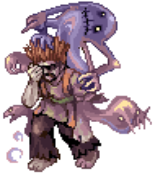
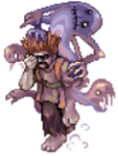
Refacto: Boss params system

diff --git a/components/boss.py b/components/boss.py
@@ -24,13 +24,130 @@ class Boss(pygame.sprite.Sprite):
 
     self.rect = self.image.get_rect()
     self.rect.x = 800
-    self.rect.y = 260
 
     self.health = 200
     self.max_health = 200
     self.velocity = 0.1
-    self.attack = 2
     self.defense = 2
+    
+    if self.game.current_level == 'payon':
+      if self.game.map_index == 1: #eddga
+        self.rect.y = 260
+        self.attack = 2
+        self.health_bar_rect_x = -30
+        self.health_bar_rect_y = -20
+      if self.game.map_index == 2: #moonlight
+        self.rect.y = 260
+        self.attack = 3
+        self.health_bar_rect_x = -30
+        self.health_bar_rect_y = -20
+      if self.game.map_index == 3: #baphomet
+        self.rect.y = 240
+        self.attack = 4
+        self.health_bar_rect_x = -10
+        self.health_bar_rect_y = -20
+
+    if self.game.current_level == 'morroc':
+      if self.game.map_index == 1: #phreeoni
+        self.rect.y = 240
+        self.attack = 6
+        self.health_bar_rect_x = -20
+        self.health_bar_rect_y = -20
+      if self.game.map_index == 2: #maya
+        self.rect.y = 250
+        self.attack = 7
+        self.health_bar_rect_x = -35
+        self.health_bar_rect_y = -20
+      if self.game.map_index == 3: #pharaoh
+        self.rect.y = 240
+        self.attack = 8
+        self.health_bar_rect_x = -50
+        self.health_bar_rect_y = -20
+
+    if self.game.current_level == 'geffen':
+      if self.game.map_index == 1: #gtb
+        self.rect.y = 270
+        self.attack = 9
+        self.health_bar_rect_x = -20
+        self.health_bar_rect_y = - 20
+      if self.game.map_index == 2: #orc lord
+        self.rect.y = 250
+        self.attack = 10
+        self.health_bar_rect_x = -35
+        self.health_bar_rect_y = -20
+      if self.game.map_index == 3: #dark lord
+        self.rect.y = 200
+        self.attack = 11
+        self.health_bar_rect_x = -25
+        self.health_bar_rect_y = -10
+
+    if self.game.current_level == 'island':
+      if self.game.map_index == 1: #octopus
+        self.rect.y = 240
+        self.attack = 12
+        self.health_bar_rect_x = -20
+        self.health_bar_rect_y = -20
+      if self.game.map_index == 2: #drake
+        self.rect.y = 240
+        self.attack = 13
+        self.health_bar_rect_x = -40
+        self.health_bar_rect_y = -20
+      if self.game.map_index == 3: #turtle general
+        self.rect.y = 245
+        self.attack = 14
+        self.health_bar_rect_x = -25
+        self.health_bar_rect_y = -20
+
+    if self.game.current_level == 'yuno':
+      if self.game.map_index == 1: #atroce
+        self.rect.y = 250
+        self.attack = 15
+        self.health_bar_rect_x = -25
+        self.health_bar_rect_y = -20
+      if self.game.map_index == 2: #rsx
+        self.rect.y = 230
+        self.attack = 16
+        self.health_bar_rect_x = -25
+        self.health_bar_rect_y = -20
+      if self.game.map_index == 3: #vesper
+        self.rect.y = 245
+        self.attack = 17
+        self.health_bar_rect_x = -30
+        self.health_bar_rect_y = -20
+
+    if self.game.current_level == 'veins':
+      if self.game.map_index == 1: #detareudus
+        self.rect.y = 260
+        self.attack = 18
+        self.health_bar_rect_x = -15
+        self.health_bar_rect_y = -20
+      if self.game.map_index == 2: #ktullanux
+        self.rect.y = 230
+        self.attack = 19
+        self.health_bar_rect_x = -30
+        self.health_bar_rect_y = -5
+      if self.game.map_index == 3: #ifrit
+        self.rect.y = 205
+        self.attack = 20
+        self.health_bar_rect_x = -20
+        self.health_bar_rect_y = -10
+
+    if self.game.current_level == 'abbeye':
+      if self.game.map_index == 1: #lord of the dead
+        self.rect.y = 230
+        self.attack = 21
+        self.health_bar_rect_x = -15
+        self.health_bar_rect_y = -20
+      if self.game.map_index == 2: #fallen bishop
+        self.rect.y = 250
+        self.attack = 22
+        self.health_bar_rect_x = -40
+        self.health_bar_rect_y = -5
+      if self.game.map_index == 3: #valkyrie
+        self.rect.y = 240
+        self.attack = 23
+        self.health_bar_rect_x = 0
+        self.health_bar_rect_y = -10
 
   def die(self):
     self.game.boss_group.remove(self)
@@ -43,8 +160,8 @@ class Boss(pygame.sprite.Sprite):
       self.die()
 
   def update_health_bar(self, surface):
-    pygame.draw.rect(surface, (60, 63, 60), [self.rect.x - 30, self.rect.y - 20, self.max_health, 7])
-    pygame.draw.rect(surface, (111, 210, 46), [self.rect.x - 30, self.rect.y - 20, self.health, 7])
+    pygame.draw.rect(surface, (60, 63, 60), [self.rect.x + self.health_bar_rect_x, self.rect.y + self.health_bar_rect_y, self.max_health, 7])
+    pygame.draw.rect(surface, (111, 210, 46), [self.rect.x + self.health_bar_rect_x, self.rect.y + self.health_bar_rect_y, self.health, 7])
 
   def forward(self):
     if not self.game.check_collision(self, self.game.players_group):

diff --git a/main.py b/main.py
@@ -42,8 +42,8 @@ geffen_map_3 = pygame.transform.scale(geffen_map_3, (1000, 600)) #geffen3 - glas
 geffen_map_3_position = (0, -100)
 
 island_map_1 = pygame.image.load('assets/maps/island/island1.jpg')
-island_map_1 = pygame.transform.scale(island_map_1, (1300, 900)) #byalan
-island_map_1_position = (-130, -50)
+island_map_1 = pygame.transform.scale(island_map_1, (800, 500)) #byalan
+island_map_1_position = (0, 0)
 island_map_2 = pygame.image.load('assets/maps/island/island2.jpg')
 island_map_2 = pygame.transform.scale(island_map_2, (900, 650)) #sunken ship
 island_map_2_position = (0, -150)
@@ -73,10 +73,10 @@ veins_map_3_position = (-50, -100)
 abbeye_map_1 = pygame.image.load('assets/maps/abbeye/abbeye1.jpg') 
 abbeye_map_1 = pygame.transform.scale(abbeye_map_1, (800, 600)) #abbeye1 - niflheim
 abbeye_map_1_position = (0, -100)
-abbeye_map_2 = pygame.image.load('assets/maps/abbeye/abbeye2.jpg')
+abbeye_map_2 = pygame.image.load('assets/maps/abbeye/abbeye2.jpg') #abbeye2 - nameless
 abbeye_map_2 = pygame.transform.scale(abbeye_map_2, (900, 700))
 abbeye_map_2_position = (0, -50)
-abbeye_map_3 = pygame.image.load('assets/maps/abbeye/abbeye3.jpg') #abbeye1 - odin temple
+abbeye_map_3 = pygame.image.load('assets/maps/abbeye/abbeye3.jpg') #abbeye3 - odin temple
 abbeye_map_3_position = (0, -220)
 
 banner = pygame.image.load('assets/banner.png')

diff --git a/components/game.py b/components/game.py
@@ -14,8 +14,8 @@ class Game:
     self.boss_group = pygame.sprite.Group()
     self.bar = Bar(self.player)
     self.levels = ['payon', 'morroc', 'geffen', 'island', 'yuno', 'veins', 'abbeye']
-    self.level_index = 0
-    self.map_index = 1
+    self.level_index = 6
+    self.map_index = 3
     self.current_level = self.levels[self.level_index]
     self.killed_monters = 0 
     self.killed_boss = 0
